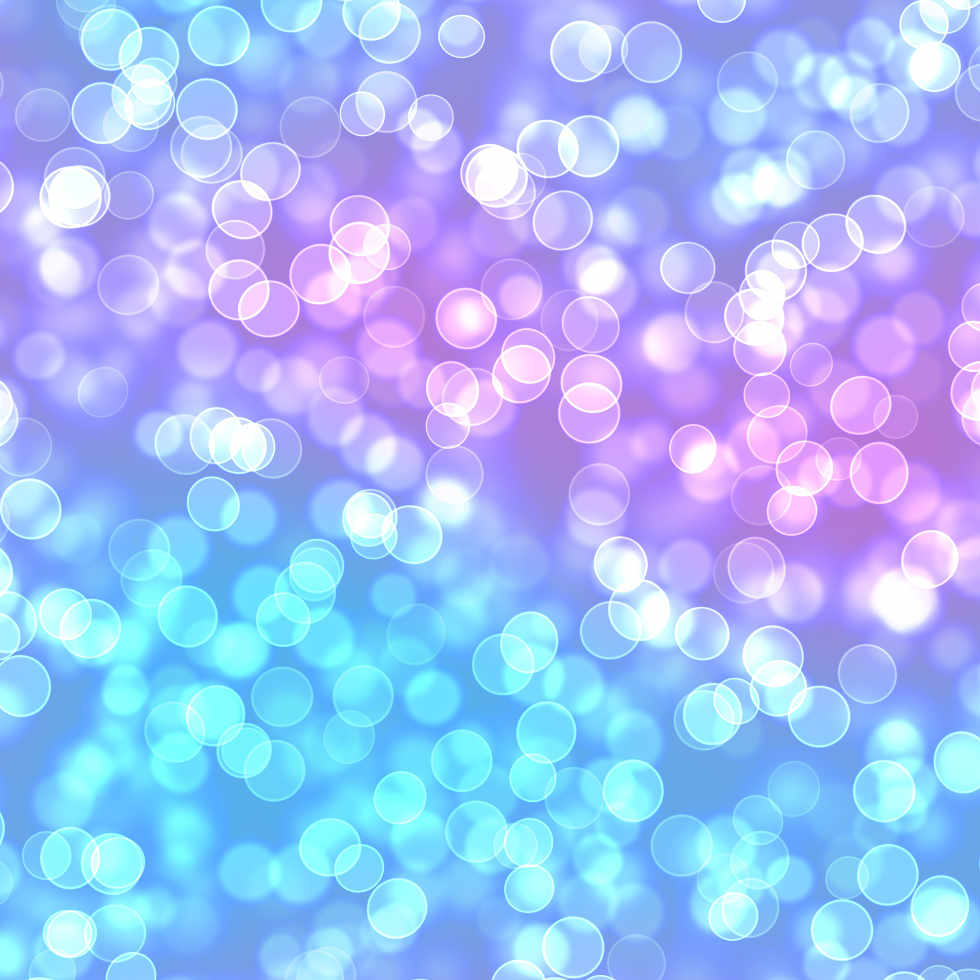
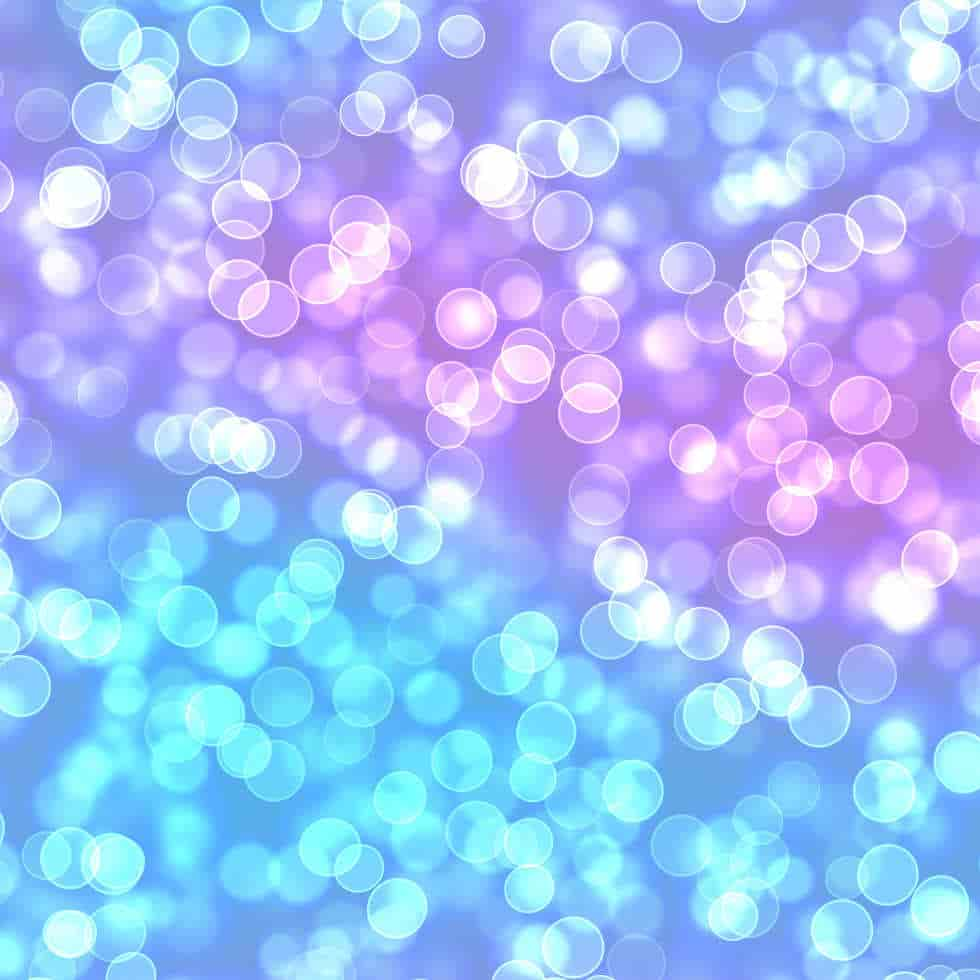
update images for more compression

diff --git a/components/Home/HomeComponent.js b/components/Home/HomeComponent.js
@@ -75,7 +75,7 @@ class HomeComponent extends React.Component {
     });
     setTimeout(() => {
       this.setState({enteringTwo: true});
-    }, 750);
+    }, 500);
   }
 
   render() {
